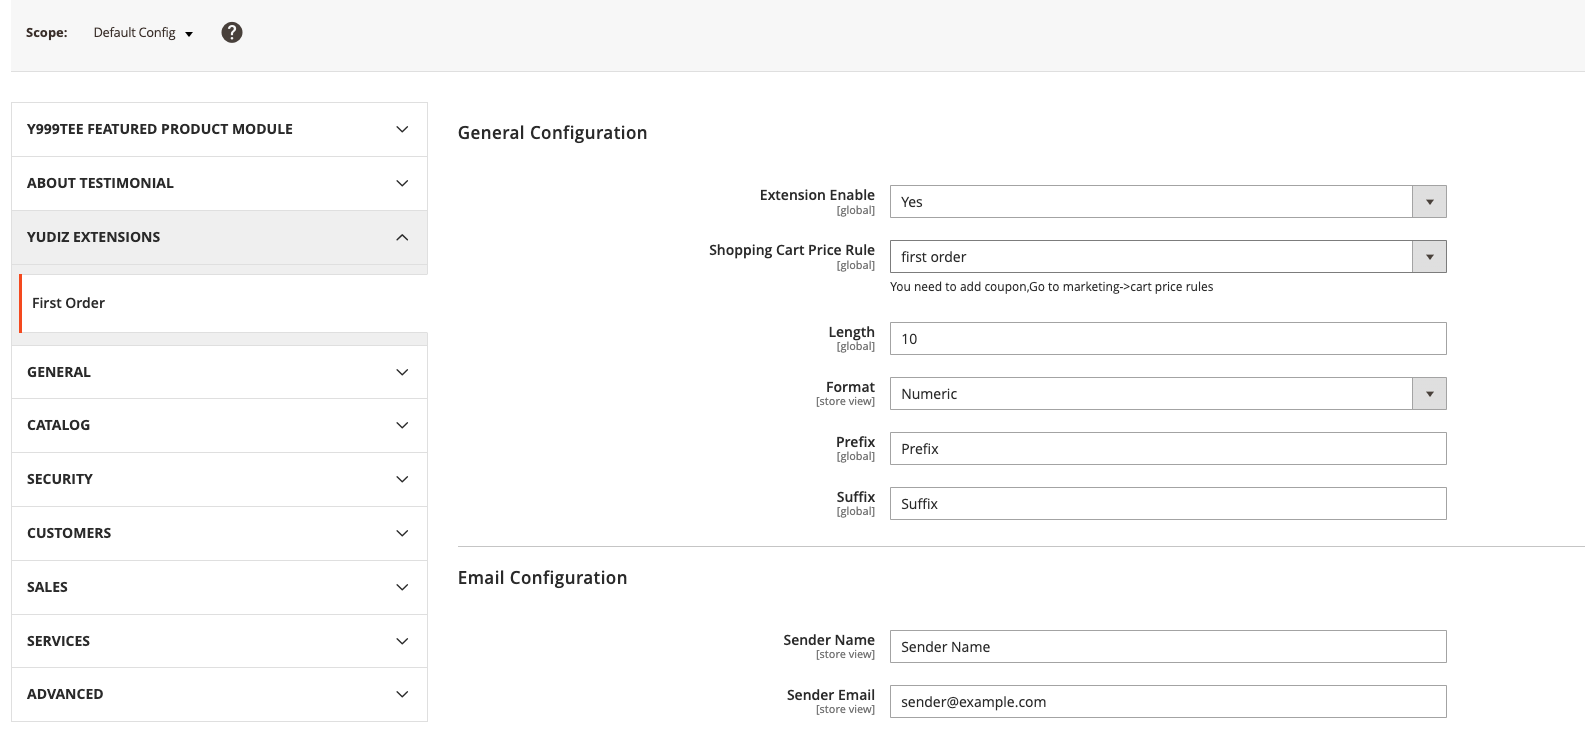
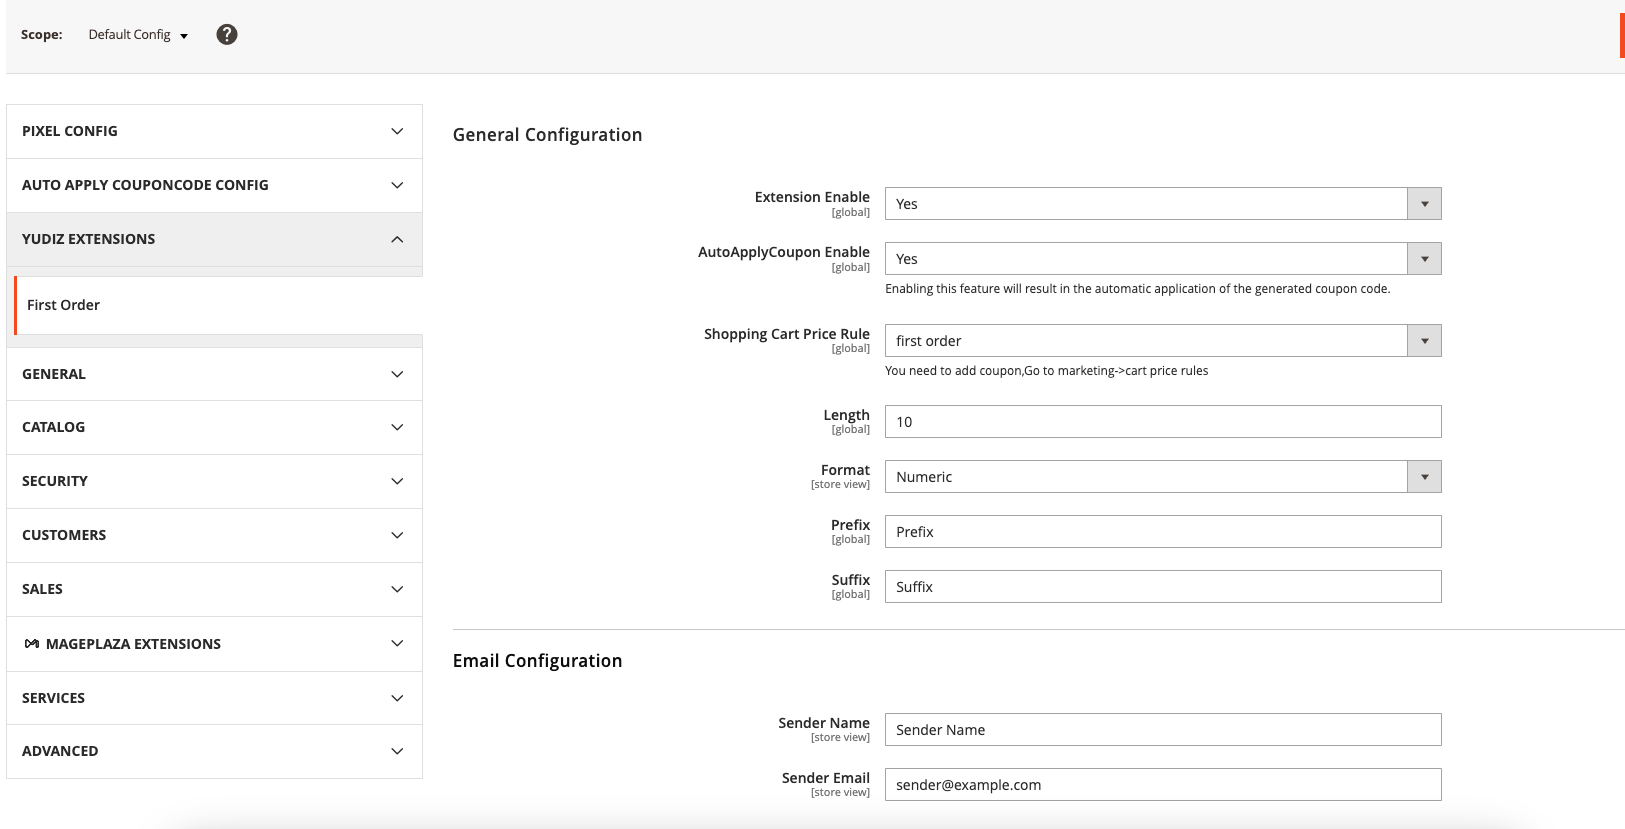
updated Readme.md

diff --git a/README.md b/README.md
@@ -90,6 +90,7 @@ Login to the **Magento Admin**, navigate to `Yudiz -> First Order Configuration 
 #### General Configuration 
 
 - Extension enable : Select Yes/No to enable or disable the module
+- AutoApply Coupon enable : Select Yes/No to enable or disable the AutoApply Couponcode Functionality.
 - Shopping Cart price Rule : Choose the shopping Cart price Rule.
 Create cart price rule from Marketing -> Promotions -> Cart Price Rules
 
@@ -140,9 +141,11 @@ After a customer registers, a pop-up will appear, presenting them with their fir
 
 As you can see in the screenshot above, customers will receive the coupon codes after successful registration. Also, they will receive an email containing the discount code for their first order.
 
-Upon adding items to the cart, the generated coupon code is automatically applied, and you receive a confirmation message indicating that the coupon code has been applied. Additionally, you can view the applied coupon code on the cart page.
+If auto-apply coupon code functionality is enabled, the system will automatically apply the coupon code and send you a confirmation message.
 
-Please note that this coupon code can only be used once. Once it has been redeemed, it cannot be used again. You can refer to the screenshots below for further clarification.
+After adding items to the cart, the generated coupon code is automatically applied,you receive a confirmation message indicating that the coupon code has been applied. Additionally, you can view the applied coupon code on the cart page.
+
+Please note that this coupon code can only be used once. Once it has been redeemed, it cannot be used again. For further clarification, you can refer to the screenshots below.
 
 
 <div>
